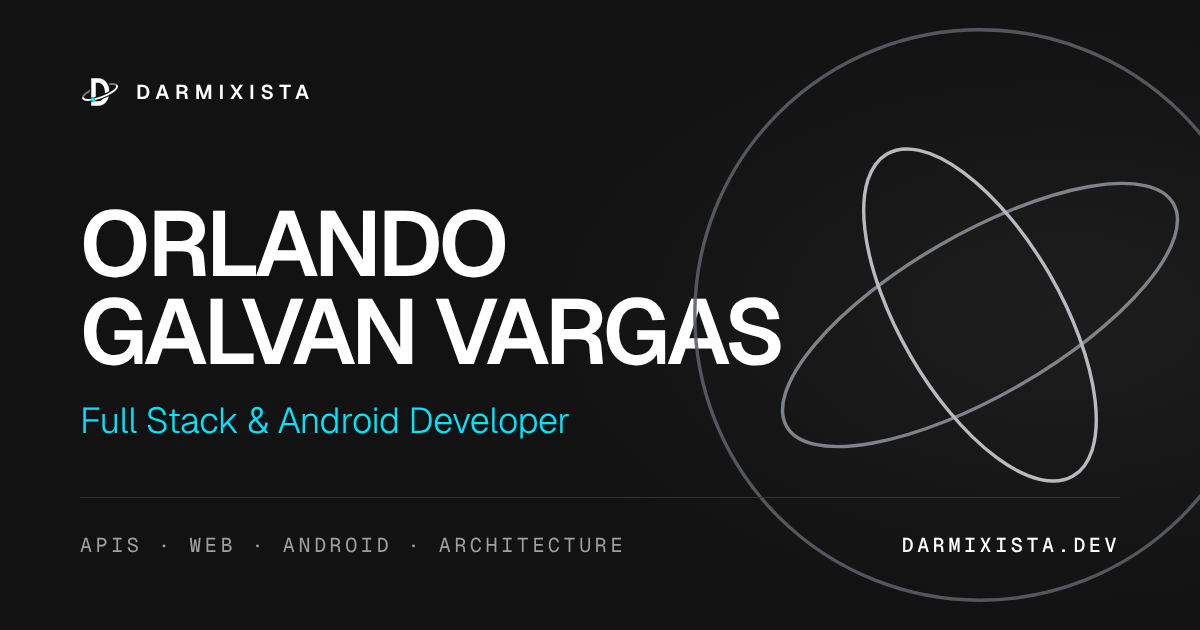
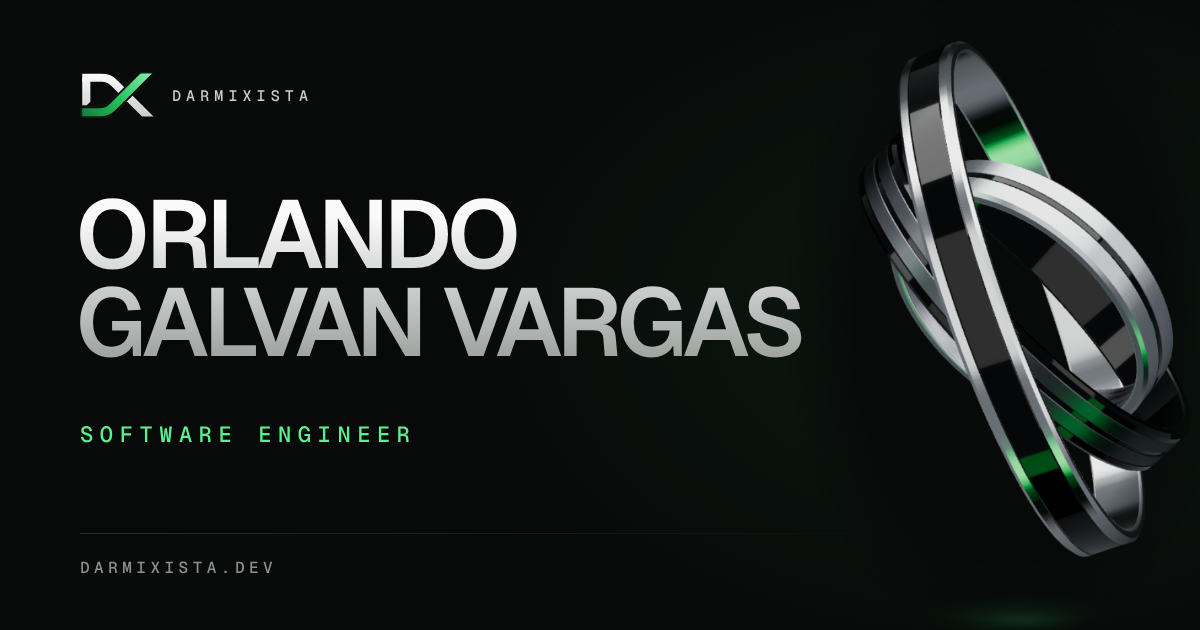
feat(update): update new navbar title

diff --git a/darmixista/src/lib/logo-mark.ts b/darmixista/src/lib/logo-mark.ts
@@ -1,0 +1,8 @@
+export function logoMark({ id = 'dx', sw = 11, bg = '#080a09', glow = false, anim = false } = {}): string {
+  const h = sw / 2;
+  const P1 = `M5 ${6 + h}H31Q41 ${6 + h} 48 ${13 + h}L104 ${69 + h}`;
+  const P2 = `M5 ${64 - h}H29Q39 ${64 - h} 46 ${57 - h}L102 ${1 - h}`;
+  const stem = `5,${6 + h} ${5 + sw},${6 + h} ${5 + sw},${64 - sw - 9} ${5 + sw - 5},${64 - sw - 4} 5,${64 - sw - 4}`;
+  const cls = anim ? ' class="logo-green" pathLength="1"' : '';
+  return `<defs><clipPath id="${id}-c"><rect x="0" y="6" width="104" height="58"/></clipPath><linearGradient id="${id}-w" x1="0" y1="6" x2="0" y2="64" gradientUnits="userSpaceOnUse"><stop offset="0" stop-color="#fbfbfb"/><stop offset="1" stop-color="#c9cdcb"/></linearGradient><linearGradient id="${id}-g" x1="8" y1="64" x2="96" y2="4" gradientUnits="userSpaceOnUse"><stop offset="0" stop-color="#15803d"/><stop offset=".5" stop-color="#22c55e"/><stop offset="1" stop-color="#86efac"/></linearGradient>${glow ? `<filter id="${id}-f" x="-20%" y="-30%" width="140%" height="160%"><feGaussianBlur stdDeviation="3.2"/></filter>` : ''}</defs>${glow ? `<g filter="url(#${id}-f)" opacity=".45"><path d="${P2}" clip-path="url(#${id}-c)" stroke="#22c55e" stroke-width="${sw}"/></g>` : ''}<g clip-path="url(#${id}-c)" stroke-linejoin="miter" stroke-miterlimit="8"><path d="${P1}" stroke="url(#${id}-w)" stroke-width="${sw}"/><polygon points="${stem}" fill="url(#${id}-w)"/><path d="${P2}" stroke="${bg}" stroke-width="${sw + 5}"/><path d="${P2}" stroke="url(#${id}-g)" stroke-width="${sw}"${cls}/></g>`;
+}

diff --git a/darmixista/README.md b/darmixista/README.md
@@ -47,6 +47,17 @@ Las apps móviles se agrupan por `audience` en su archivo de datos: `'personal'`
 `'business'` en «Apps para negocios». El segundo carrusel aparece solo cuando existe al menos una app con
 `audience: 'business'`.
 
+### Inicio
+
+El nombre grande vive en dos capas: el relleno (`HeroName variant="fill"`) está detrás del canvas de los anillos
+y el contorno (`variant="outline"`) encima, visible solo en la zona de los anillos. Las posiciones de "Hola, soy",
+el título, los botones y el sello se calculan con unidades de contenedor a partir del diámetro y centro de los
+anillos (`--ring-d`, `--ring-cy`), que deben coincidir con `heroPose` en `Rings.tsx`. Con mouse se muestra el
+icono de scroll; en táctil, el sello Darmixista. La animación de entrada vive en `src/scripts/hero.ts`.
+
+El logo (D + X) se genera en `src/components/brand/Logo.astro`; `favicon.svg`, los iconos de `public/icons` y las
+imágenes de `public/og` usan el mismo trazo.
+
 ### Textos por tamaño de pantalla
 
 Cada vista cabe en una sola pantalla sin scroll interno, así que varios textos tienen más de una versión y el
@@ -54,7 +65,6 @@ CSS elige cuál mostrar según el ancho y el alto del navegador:
 
 | Texto                                      | Largo                                 | Medio                                                     | Corto                                |
 | ------------------------------------------ | ------------------------------------- | --------------------------------------------------------- | ------------------------------------ |
-| Hero (`hero.bio` / `hero.bioShort`)        | alturas > 620 px                      | —                                                         | alturas ≤ 620 px                     |
 | Sobre mí (`about.lead*`, `body*`)          | ≥ 768 px y > 620 px de alto           | —                                                         | teléfonos o alturas ≤ 620 px         |
 | Servicios (`description`/`medium`/`short`) | ≥ 1280 px y > 760 px de alto          | tablets 768–1279, alturas ≤ 760 o teléfonos ≥ 780 de alto | teléfonos de menos de 780 px de alto |
 | Intro de Servicios                         | ≥ 768 px o teléfonos ≥ 880 px de alto | —                                                         | oculta                               |
